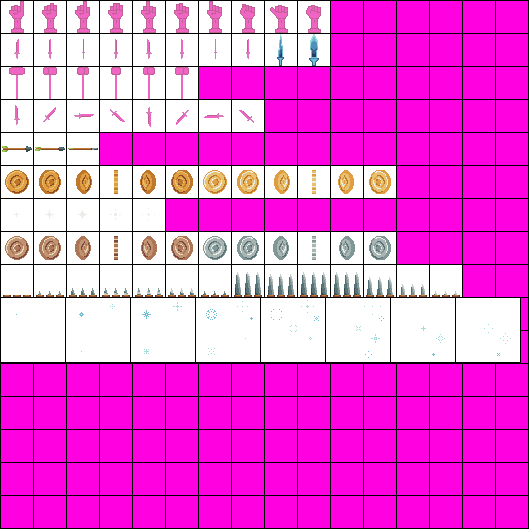
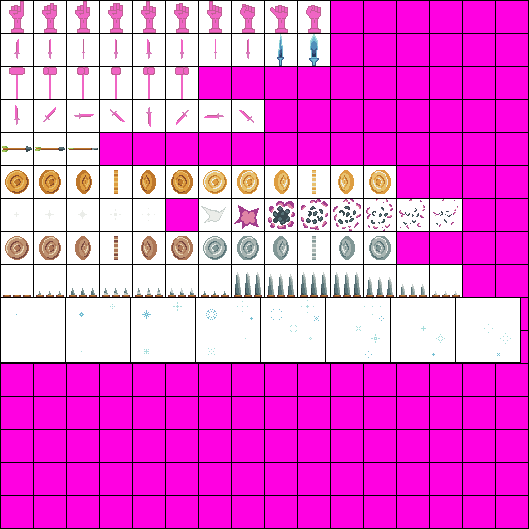
Added new textures

Changed region(s): [[0.3629, 0.3629, 0.8771, 0.4537]]

diff --git a/GameProject2023/src/visual_effects/DarkSmokeEffect.java b/GameProject2023/src/visual_effects/DarkSmokeEffect.java
@@ -6,20 +6,20 @@ import framework.TextureLoader;
 import framework.TextureLoader.TextureName;
 import window.Animation;
 
-public class SparkleEffect extends OneTimeAnimationEffect {
+public class DarkSmokeEffect extends OneTimeAnimationEffect {
 
-	public SparkleEffect(float x, float y, ObjectHandler objectHandler) {
+	public DarkSmokeEffect(float x, float y, ObjectHandler objectHandler) {
 		super(x, y, GameConstants.ScaleConstants.TILE_SIZE, GameConstants.ScaleConstants.TILE_SIZE, objectHandler);
 	}
 	
-	public SparkleEffect(float x, float y, int width, int height, ObjectHandler objectHandler) {
+	public DarkSmokeEffect(float x, float y, int width, int height, ObjectHandler objectHandler) {
 		super(x, y, width, height, objectHandler);
 	}
 
 	@Override
 	public Animation getAnimation() {
-		int sparkleDelay = 8;
-		return new Animation(TextureLoader.getInstance().getTextures(TextureName.SparkleEffect), sparkleDelay, true);
+		int smokeDelay = 8;
+		return new Animation(TextureLoader.getInstance().getTextures(TextureName.DarkSmokeEffect), smokeDelay, true);
 	}
 	
 }

diff --git a/GameProject2023/src/framework/TextureLoader.java b/GameProject2023/src/framework/TextureLoader.java
@@ -71,6 +71,7 @@ public class TextureLoader {
 		
 		// Effects
 		SparkleEffect,
+		DarkSmokeEffect,
 		
 		SpikeAttack,
 		IceSword,
@@ -377,6 +378,11 @@ public class TextureLoader {
 			textures = new BufferedImage[5];
 			for (int i = 0; i < textures.length; i++)
 				textures[i] = itemSheet.getSubimage(1 + i * 33, 199, 32, 32);
+			break;
+		case DarkSmokeEffect:
+			textures = new BufferedImage[8];
+			for (int i = 0; i < textures.length; i++)
+				textures[i] = itemSheet.getSubimage(199 + i * 33, 199, 32, 32);
 			break;
 		case SpikeAttack:
 			textures = new BufferedImage[14];
